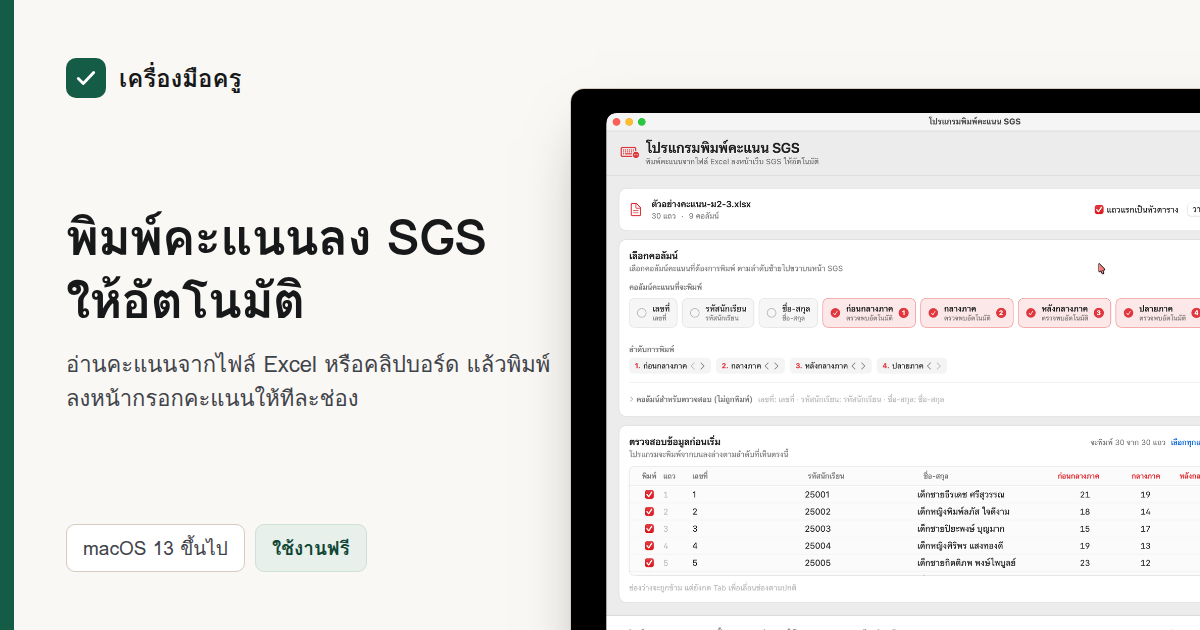
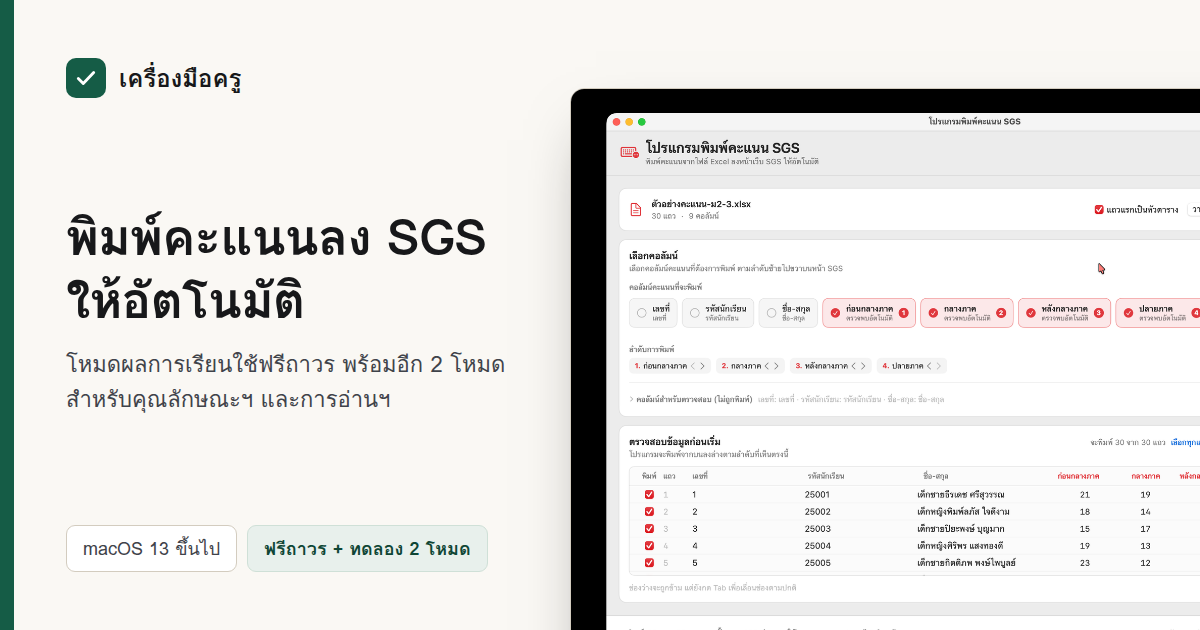
Publish store pages from bfd02d28394d77541f72542cbcdf60887c9f923d

Changed region(s): [[0.0617, 0.5429, 0.4625, 0.6635], [0.0617, 0.8143, 0.4008, 0.9048]]

diff --git a/sgs-auto-typer.html b/sgs-auto-typer.html
@@ -4,7 +4,7 @@
 <meta charset="utf-8">
 <meta name="viewport" content="width=device-width, initial-scale=1">
 <title>SGS Auto-Typer — พิมพ์คะแนนลง SGS อัตโนมัติ สำหรับ macOS</title>
-<meta name="description" content="SGS Auto-Typer อ่านคะแนนจากไฟล์ Excel หรือคลิปบอร์ด แล้วพิมพ์ลงหน้ากรอกคะแนนของ SGS ให้อัตโนมัติ ใช้งานฟรี สำหรับ macOS 13 ขึ้นไป">
+<meta name="description" content="พิมพ์คะแนนลงหน้ากรอกคะแนนของ SGS ให้อัตโนมัติจากไฟล์ Excel หรือคลิปบอร์ด โหมดผลการเรียนใช้ฟรีถาวร พร้อมโหมดคุณลักษณะอันพึงประสงค์ และการอ่าน คิดวิเคราะห์ และเขียน ให้ทดลองใช้">
 <meta name="theme-color" content="#faf8f4">
 <link rel="canonical" href="https://natthaphat-math.github.io/Store/sgs-auto-typer.html">
 <link rel="icon" href="./favicon.svg" type="image/svg+xml">
@@ -13,14 +13,14 @@
 <meta property="og:site_name" content="เครื่องมือครู">
 <meta property="og:locale" content="th_TH">
 <meta property="og:title" content="SGS Auto-Typer — พิมพ์คะแนนลง SGS อัตโนมัติ สำหรับ macOS">
-<meta property="og:description" content="อ่านคะแนนจากไฟล์ Excel หรือคลิปบอร์ด แล้วพิมพ์ลงหน้ากรอกคะแนนของ SGS ให้อัตโนมัติ ใช้งานฟรี">
+<meta property="og:description" content="พิมพ์คะแนนลงหน้ากรอกคะแนนของ SGS ให้อัตโนมัติจากไฟล์ Excel หรือคลิปบอร์ด โหมดผลการเรียนใช้ฟรีถาวร พร้อมโหมดคุณลักษณะอันพึงประสงค์ และการอ่าน คิดวิเคราะห์ และเขียน ให้ทดลองใช้">
 <meta property="og:url" content="https://natthaphat-math.github.io/Store/sgs-auto-typer.html">
 <meta property="og:image" content="https://natthaphat-math.github.io/Store/images/og-sgs.png">
 <meta property="og:image:width" content="1200">
 <meta property="og:image:height" content="630">
 <meta name="twitter:card" content="summary_large_image">
 <meta name="twitter:title" content="SGS Auto-Typer — พิมพ์คะแนนลง SGS อัตโนมัติ สำหรับ macOS">
-<meta name="twitter:description" content="อ่านคะแนนจากไฟล์ Excel หรือคลิปบอร์ด แล้วพิมพ์ลงหน้ากรอกคะแนนของ SGS ให้อัตโนมัติ ใช้งานฟรี">
+<meta name="twitter:description" content="พิมพ์คะแนนลงหน้ากรอกคะแนนของ SGS ให้อัตโนมัติจากไฟล์ Excel หรือคลิปบอร์ด โหมดผลการเรียนใช้ฟรีถาวร พร้อมโหมดคุณลักษณะอันพึงประสงค์ และการอ่าน คิดวิเคราะห์ และเขียน ให้ทดลองใช้">
 <meta name="twitter:image" content="https://natthaphat-math.github.io/Store/images/og-sgs.png">
 <style>
 
@@ -317,6 +317,7 @@
       <a href="#features">ความสามารถ</a>
       <a href="#install">ติดตั้ง</a>
       <a href="#how">วิธีใช้งาน</a>
+      <a href="#modes">โหมด</a>
       <a class="btn-sm" href="#download">ดาวน์โหลด</a>
     </nav>
   </div>
@@ -332,8 +333,8 @@
           แล้วพิมพ์ลงหน้ากรอกคะแนนของ SGS ให้ทีละช่อง โดยจำลองการกดแป้นพิมพ์จริง
         </p>
         <div class="offer">
-          <strong>ใช้งานฟรี ไม่มีค่าใช้จ่าย</strong>
-          <span>ไม่ต้องสมัครสมาชิก ไม่ต้องกรอกอีเมล ดาวน์โหลดแล้วใช้ได้เลย</span>
+          <strong>โหมดผลการเรียน ใช้ฟรีถาวร</strong>
+          <span>และมีโหมดคุณลักษณะอันพึงประสงค์ กับโหมดการอ่าน คิดวิเคราะห์ และเขียน ให้ทดลองใช้ด้วย</span>
         </div>
         <div class="cta-row">
           <a class="btn btn-primary" href="https://github.com/Natthaphat-math/sgs-auto-typer-releases/releases/latest/download/SGS-Auto-Typer.zip">
@@ -562,11 +563,60 @@
     </div>
   </section>
 
+  <section id="modes">
+    <div class="wrap">
+      <div class="sec-label">โหมดการทำงาน</div>
+      <h2>สามโหมด สำหรับสามหน้าใน SGS</h2>
+      <p class="sec-intro">
+        เลือกโหมดได้จากแถบด้านบนของหน้าต่าง โหมดเป็นตัวกำหนดว่าไฟล์ของคุณครูต้องมีอะไรบ้าง
+      </p>
+
+      <div class="dl-grid three">
+        <div class="dl">
+          <div class="os"><h3>ผลการเรียน</h3></div>
+          <p>
+            พิมพ์คะแนนจากคอลัมน์ที่เลือก ลงหน้ากรอกคะแนนตามลำดับที่ตั้งไว้
+            เป็นโหมดเดิมที่มีมาตั้งแต่แรก
+          </p>
+          <div class="chips"><span class="chip free">ใช้ฟรีถาวร ไม่จำกัดจำนวนครั้ง</span></div>
+        </div>
+        <div class="dl">
+          <div class="os"><h3>คุณลักษณะอันพึงประสงค์</h3></div>
+          <p>
+            นักเรียนหนึ่งคนมี 8 ช่อง และปกติทุกช่องใช้ระดับเดียวกัน
+            คุณครูกรอกในไฟล์แค่ช่องเดียวว่าได้ 1, 2 หรือ 3 แล้วโปรแกรมพิมพ์ซ้ำให้ครบทั้ง 8 ช่อง
+          </p>
+          <div class="chips"><span class="chip">ทดลองฟรี 1 ครั้ง</span></div>
+        </div>
+        <div class="dl">
+          <div class="os"><h3>การอ่าน คิดวิเคราะห์ และเขียน</h3></div>
+          <p>
+            นักเรียนหนึ่งคนมี 3 ช่อง โปรแกรมคิดระดับจากเกรดของวิชาให้เอง
+            เกรด 4, 3.5, 3 ได้ระดับ 3 · เกรด 2.5, 2 ได้ระดับ 2 · เกรด 1.5, 1, 0 ได้ระดับ 1
+          </p>
+          <div class="chips"><span class="chip">ทดลองฟรี 1 ครั้ง</span></div>
+        </div>
+      </div>
+
+      <p class="note">
+        สองโหมดหลังทดลองใช้ได้ฟรีโหมดละ 1 ครั้ง (นับเมื่อพิมพ์ลง SGS ไปแล้วจริง ๆ
+        กดเริ่มผิดหน้าต่างไม่นับ) หลังจากนั้นปลดล็อกด้วยไลเซนส์
+        <strong>49 บาท จ่ายครั้งเดียว ได้ทั้งสองโหมด</strong> ใช้ได้ตลอดไปและกับ Mac ทุกเครื่องของคุณครูเอง
+        ชำระผ่าน PromptPay จากในแอป — กดปุ่มปลดล็อกที่มุมขวาบน
+      </p>
+
+      <p class="note">
+        นักเรียนที่อ่านค่าในคอลัมน์ไม่ได้ เช่น ติด ร, มส, มผ หรือเว้นว่างไว้ จะถูกข้ามทั้งคน
+        และโปรแกรมจะบอกจำนวนคนที่ข้ามให้เห็นก่อนเริ่มพิมพ์ ไม่มีการเดาค่าให้
+      </p>
+    </div>
+  </section>
+
   <section id="download">
     <div class="wrap">
       <div class="sec-label">ดาวน์โหลด</div>
-      <h2>ใช้งานฟรี ไม่มีค่าใช้จ่าย</h2>
-      <p class="sec-intro">ไม่ต้องชำระเงิน ไม่ต้องสมัครสมาชิก ไม่ต้องกรอกอีเมล</p>
+      <h2>ดาวน์โหลดแล้วเริ่มใช้ได้เลย</h2>
+      <p class="sec-intro">ไม่ต้องสมัครสมาชิก ไม่ต้องกรอกอีเมล โหมดผลการเรียนใช้ได้ฟรีไม่จำกัด</p>
 
       <div class="dl-grid three">
         <div class="dl">

diff --git a/index.html b/index.html
@@ -367,11 +367,12 @@
           <div class="os"><h3>SGS Auto-Typer</h3></div>
           <p>
             พิมพ์คะแนนจาก Excel, Google ชีต หรือคลิปบอร์ด ลงหน้ากรอกคะแนนของ SGS ให้อัตโนมัติ
-            กด Esc หรือเลื่อนเมาส์ไปมุมจอเพื่อหยุดได้ทันทีระหว่างพิมพ์
+            มีโหมดคุณลักษณะอันพึงประสงค์ และการอ่าน คิดวิเคราะห์ และเขียน ให้ใช้ด้วย
           </p>
           <div class="chips">
             <span class="chip">macOS 13 ขึ้นไป</span>
-            <span class="chip free">ใช้งานฟรี</span>
+            <span class="chip free">โหมดผลการเรียนฟรีถาวร</span>
+            <span class="chip">อีก 2 โหมด ทดลองฟรี</span>
           </div>
           <span class="btn btn-secondary">ดูรายละเอียดและดาวน์โหลด</span>
         </a>
